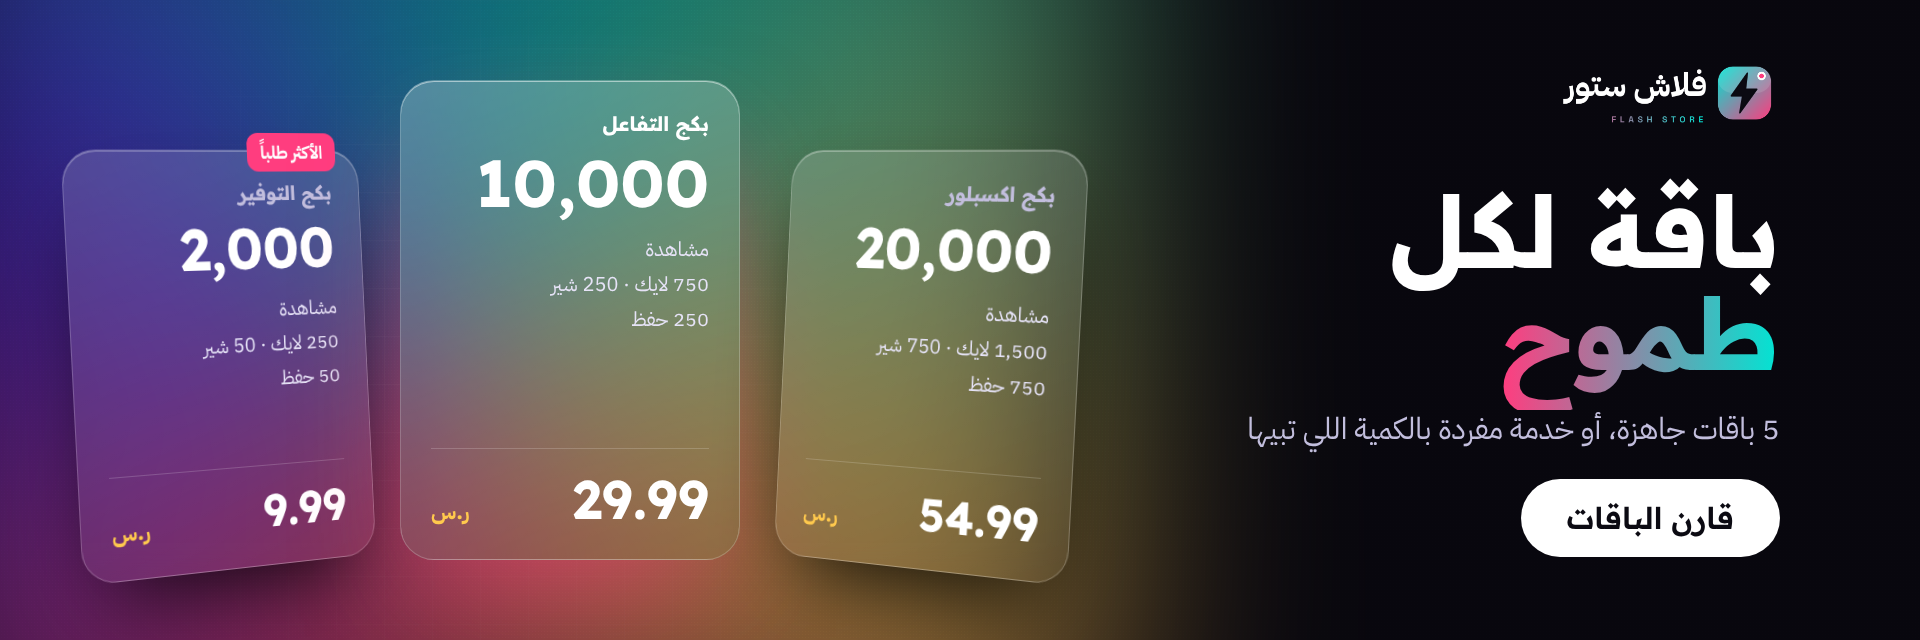
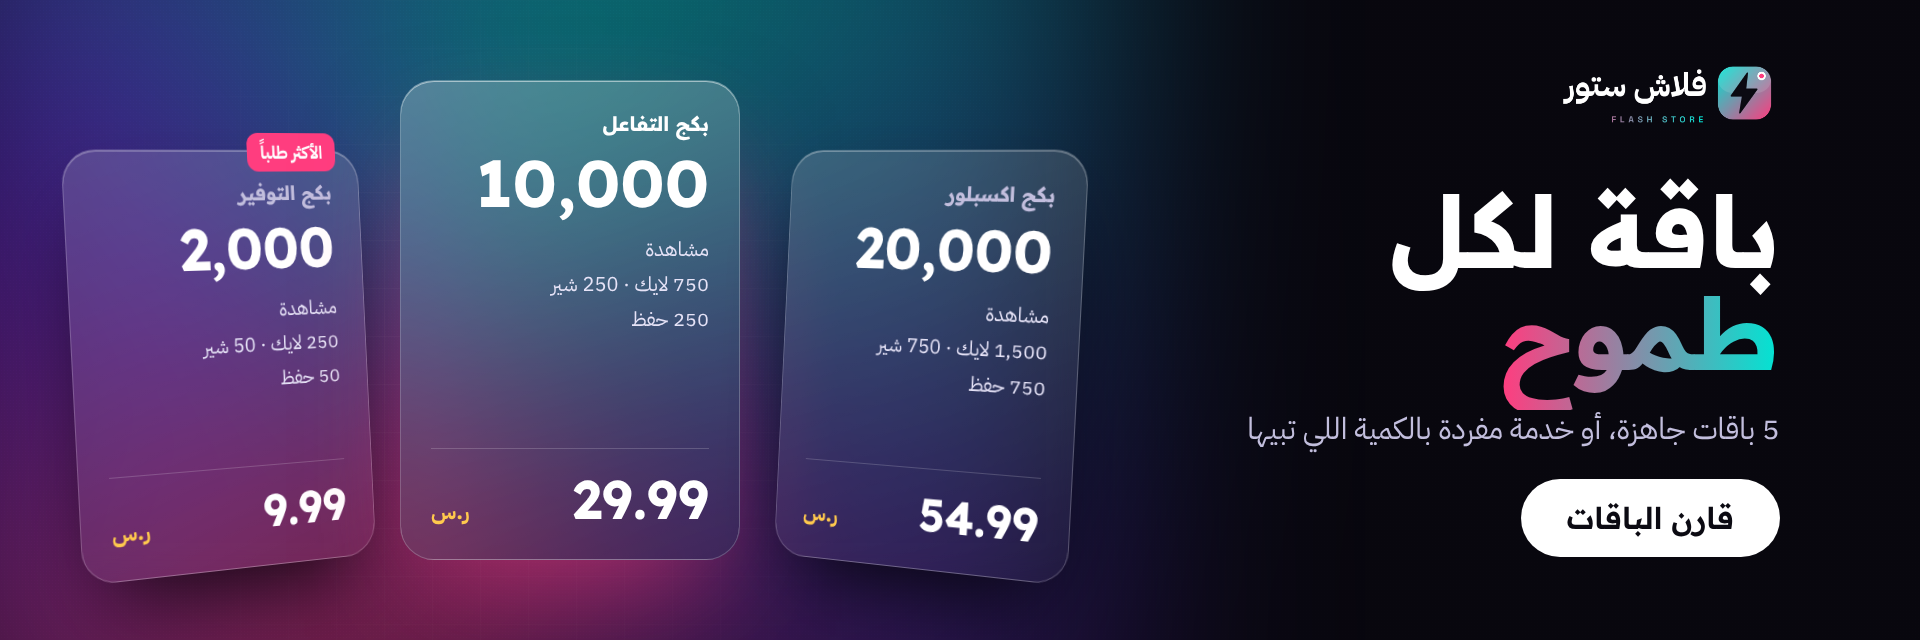
Polish v4 headers
Claude-Session: https://claude.ai/code/session_01Jr2byRzhdfLVFbNc9Z4Y48

diff --git a/salla/v9/headers4.html b/salla/v9/headers4.html
@@ -52,7 +52,7 @@ svg{display:block}
 .p{position:absolute;pointer-events:none}
 .scr{position:absolute;inset:14px;border-radius:44px;overflow:hidden}
 .rail{position:absolute;right:16px;bottom:120px;display:flex;flex-direction:column;gap:26px;align-items:center;z-index:3}
-.rail div{text-align:center;font-weight:700;font-size:17px}
+.rail div{text-align:center;font-weight:700;font-size:17px;direction:ltr}
 .cap{position:absolute;right:20px;left:90px;bottom:34px;z-index:3;font-size:17px;line-height:1.5;color:#fff;text-align:right}
 .pop{position:absolute;z-index:4;display:flex;align-items:center;gap:12px;padding:14px 22px;border-radius:22px;background:rgba(22,20,42,.78);border:1px solid rgba(255,255,255,.14);backdrop-filter:blur(14px);box-shadow:0 20px 50px -15px rgba(0,0,0,.8);font-family:Readex;font-weight:700;font-size:30px;direction:ltr}
 .pop small{font-family:Plex;font-weight:600;font-size:18px;color:var(--mut);direction:rtl}
@@ -77,17 +77,14 @@ svg{display:block}
       <filter id="gl" x="-50%" y="-50%" width="200%" height="200%"><feGaussianBlur stdDeviation="18" result="b"/><feMerge><feMergeNode in="b"/><feMergeNode in="SourceGraphic"/></feMerge></filter>
       <radialGradient id="hit"><stop offset="0" stop-color="#fff"/><stop offset=".3" stop-color="#9FFFF7"/><stop offset="1" stop-color="#00E5D4" stop-opacity="0"/></radialGradient>
     </defs>
-    <g transform="translate(150,-30) rotate(8)">
-      <g id="bolt3d">
-        <path d="M330 0 120 330h150L190 640 470 250H310L410 0Z" fill="url(#bs)" transform="translate(26,22)"/>
-        <path d="M330 0 120 330h150L190 640 470 250H310L410 0Z" fill="url(#bs)" transform="translate(18,15)"/>
-        <path d="M330 0 120 330h150L190 640 470 250H310L410 0Z" fill="url(#bs)" transform="translate(9,8)"/>
-        <path d="M330 0 120 330h150L190 640 470 250H310L410 0Z" fill="url(#bf)" filter="url(#gl)"/>
-        <path d="M330 0 120 330h150L190 640 470 250H310L410 0Z" fill="none" stroke="rgba(255,255,255,.55)" stroke-width="3"/>
-        <path d="M335 20 160 305h40L345 30Z" fill="rgba(255,255,255,.35)"/>
-      </g>
+    <g transform="translate(205,22) rotate(8) scale(.88)">
+      <g id="ext"></g>
+      <path d="M330 0 120 330h150L190 640 470 250H310L410 0Z" fill="url(#bf)" filter="url(#gl)"/>
+      <path d="M330 0 120 330h150L190 640 470 250H310L410 0Z" fill="none" stroke="rgba(255,255,255,.7)" stroke-width="3" stroke-linejoin="round"/>
+      <path d="M338 22 168 300h34L352 34Z" fill="rgba(255,255,255,.45)"/>
+      <path d="M318 268h118L226 556Z" fill="rgba(255,255,255,.12)"/>
     </g>
-    <circle cx="430" cy="600" r="150" fill="url(#hit)" opacity=".7"/>
+    <circle cx="400" cy="610" r="170" fill="url(#hit)" opacity=".75"/><ellipse cx="400" cy="622" rx="260" ry="26" fill="#00E5D4" opacity=".25" filter="url(#gl)"/>
   </svg>
   <div id="sparks1" class="p" style="inset:0"></div>
   <div class="pop z" style="left:600px;top:120px"><svg width="34" height="34" viewBox="0 0 24 24"><path d="M2 12s3.6-7 10-7 10 7 10 7-3.6 7-10 7S2 12 2 12Z" fill="none" stroke="#00E5D4" stroke-width="2.2"/><circle cx="12" cy="12" r="3" fill="#00E5D4"/></svg>+2,000<small>مشاهدة</small></div>
@@ -130,11 +127,11 @@ svg{display:block}
 <!-- ================= 3: ENGAGEMENT STORM ================= -->
 <section class="b noise vig" id="w3" style="background:radial-gradient(1000px 640px at 30% 55%,#1C0F3A 0,#0A0910 65%)">
   <div id="storm" class="p" style="inset:0"></div>
-  <div class="z" style="left:320px;top:110px;width:300px;height:600px;border-radius:52px;background:#141226;border:10px solid #23204A;box-shadow:0 60px 140px -20px rgba(0,0,0,.9),0 0 0 1px rgba(255,255,255,.06),0 0 120px -30px #FF3D7F;transform:rotate(-8deg)">
+  <div class="z" style="left:360px;top:80px;width:250px;height:490px;border-radius:46px;background:#141226;border:10px solid #23204A;box-shadow:0 60px 140px -20px rgba(0,0,0,.9),0 0 0 1px rgba(255,255,255,.06),0 0 120px -30px #FF3D7F;transform:rotate(-8deg)">
     <div class="scr" style="background:linear-gradient(170deg,#2A1F52,#0E0C1C)">
       <div style="position:absolute;top:16px;left:50%;width:90px;height:26px;margin-left:-45px;border-radius:14px;background:#000"></div>
       <div style="position:absolute;left:50%;top:40%;transform:translate(-50%,-50%)"><svg width="80" height="80" viewBox="0 0 24 24"><circle cx="12" cy="12" r="11" fill="rgba(255,255,255,.14)"/><path d="M10 8l6 4-6 4z" fill="#fff"/></svg></div>
-      <div class="rail"><div><svg width="38" height="38" viewBox="0 0 24 24"><path d="M12 20s-7.5-4.6-9.2-9.3C1.7 7.5 3.8 4.5 7 4.5c2 0 3.4 1.1 5 3 1.6-1.9 3-3 5-3 3.2 0 5.3 3 4.2 6.2C19.5 15.4 12 20 12 20Z" fill="#FF3D7F"/></svg></div></div>
+      <div class="rail" style="bottom:70px;gap:18px"><div><svg width="34" height="34" viewBox="0 0 24 24"><path d="M12 20s-7.5-4.6-9.2-9.3C1.7 7.5 3.8 4.5 7 4.5c2 0 3.4 1.1 5 3 1.6-1.9 3-3 5-3 3.2 0 5.3 3 4.2 6.2C19.5 15.4 12 20 12 20Z" fill="#FF3D7F"/></svg>+250</div><div><svg width="30" height="30" viewBox="0 0 24 24"><path d="M6 3h12v18l-6-4.5L6 21V3Z" fill="#FFC94D"/></svg>+50</div><div><svg width="30" height="30" viewBox="0 0 24 24"><path d="M14 4l7 7-7 7v-4c-5 0-8.5 1.5-11 5 1-5 4-10 11-11V4Z" fill="#fff"/></svg>+50</div></div>
     </div>
   </div>
   <img class="logo z" src="logo.png">
@@ -147,7 +144,7 @@ svg{display:block}
 
 <!-- ================= 4: GLASS PACKAGES ================= -->
 <section class="b noise" id="w4" style="background:#08070E">
-  <div class="p" style="left:-100px;top:-200px;width:1200px;height:1000px;background:conic-gradient(from 200deg at 45% 55%,#FF3D7F,#5B2BFF,#00E5D4,#FFC94D,#FF3D7F);filter:blur(120px);opacity:.55"></div>
+  <div class="p" style="left:-100px;top:-200px;width:1200px;height:1000px;background:conic-gradient(from 200deg at 45% 55%,#FF3D7F,#7A2BFF,#00E5D4,#3A1F9A,#FF3D7F);filter:blur(120px);opacity:.5"></div>
   <div class="p" style="left:0;top:0;width:1100px;height:640px;background-image:linear-gradient(rgba(255,255,255,.04) 1px,transparent 1px),linear-gradient(90deg,rgba(255,255,255,.04) 1px,transparent 1px);background-size:48px 48px;mask-image:radial-gradient(circle at 45% 55%,#000,transparent 70%);-webkit-mask-image:radial-gradient(circle at 45% 55%,#000,transparent 70%)"></div>
   <div class="gc z" style="left:70px;top:150px;transform:perspective(1200px) rotateY(18deg) rotate(-3deg)">
     <span style="position:absolute;top:-18px;right:24px;background:var(--pk);font-weight:700;font-size:18px;padding:6px 14px;border-radius:12px">الأكثر طلباً</span>
@@ -174,10 +171,11 @@ svg{display:block}
 </section>
 
 <script>
+(function(){const g=document.getElementById("ext");let h="";for(let i=26;i>0;i--){const t=i/26;h+=`<path d="M330 0 120 330h150L190 640 470 250H310L410 0Z" transform="translate(${(i*1.1).toFixed(1)},${(i*0.9).toFixed(1)})" fill="rgb(${Math.round(40+60*(1-t))},${Math.round(10+20*(1-t))},${Math.round(50+30*(1-t))})"/>`}g.innerHTML=h})();
 function rnd(seed){return function(){seed=(seed*16807)%2147483647;return (seed-1)/2147483646}}
 (function(){
   const r=rnd(7),el=document.getElementById('sparks1');let h='';
-  for(let i=0;i<70;i++){const x=200+r()*700,y=r()*640,s=2+r()*5,c=r()<.5?'#FF3D7F':(r()<.5?'#00E5D4':'#fff');h+=`<i style="position:absolute;left:${x}px;top:${y}px;width:${s}px;height:${s}px;border-radius:50%;background:${c};box-shadow:0 0 ${s*3}px ${c};opacity:${.3+r()*.7}"></i>`}
+  for(let i=0;i<45;i++){const x=180+r()*720,y=r()*640,s=2+r()*5,c=r()<.5?'#FF3D7F':(r()<.5?'#00E5D4':'#fff');h+=`<i style="position:absolute;left:${x}px;top:${y}px;width:${s}px;height:${s}px;border-radius:50%;background:${c};box-shadow:0 0 ${s*3}px ${c};opacity:${.3+r()*.7}"></i>`}
   el.innerHTML=h;
 })();
 (function(){
@@ -193,8 +191,8 @@ function rnd(seed){return function(){seed=(seed*16807)%2147483647;return (seed-1
     ['<path d="M6 3h12v18l-6-4.5L6 21V3Z" fill="#FFC94D"/>','#FFC94D'],
     ['<path d="M14 4l7 7-7 7v-4c-5 0-8.5 1.5-11 5 1-5 4-10 11-11V4Z" fill="#00E5D4"/>','#00E5D4'],
     ['<path d="M2 12s3.6-7 10-7 10 7 10 7-3.6 7-10 7S2 12 2 12Z" fill="#B9A6FF"/><circle cx="12" cy="12" r="3" fill="#1C0F3A"/>','#B9A6FF']];
-  const cx=470,cy=360;
-  for(let i=0;i<120;i++){const a=r()*Math.PI*2,d=120+Math.pow(r(),.7)*560;const x=cx+Math.cos(a)*d*1.25,y=cy+Math.sin(a)*d*.75;if(x<-40||x>1020||y<-40||y>680)continue;const s=18+r()*58*(d/680+.25);const ic=icons[Math.floor(r()*icons.length)];const bl=r()<.35?`filter:blur(${(2+r()*4).toFixed(1)}px);`:'';h+=`<svg style="position:absolute;left:${x}px;top:${y}px;transform:rotate(${(r()*60-30).toFixed(0)}deg);${bl}opacity:${(.45+r()*.55).toFixed(2)};filter:${bl?'blur(3px)':'drop-shadow(0 0 10px '+ic[1]+')'}" width="${s}" height="${s}" viewBox="0 0 24 24">${ic[0]}</svg>`}
+  const cx=485,cy=325;
+  for(let i=0;i<95;i++){const a=r()*Math.PI*2,d=120+Math.pow(r(),.7)*560;const x=cx+Math.cos(a)*d*1.25,y=cy+Math.sin(a)*d*.75;if(x<-40||x>1020||y<-40||y>680)continue;const s=18+r()*58*(d/680+.25);const ic=icons[Math.floor(r()*icons.length)];const far=r()<.3;const f=far?'blur(2.5px)':'drop-shadow(0 0 8px '+ic[1]+')';const ss=far?s*.7:s;h+=`<svg style="position:absolute;left:${x}px;top:${y}px;transform:rotate(${(r()*50-25).toFixed(0)}deg);opacity:${(far?.35:.6+r()*.4).toFixed(2)};filter:${f}" width="${ss}" height="${ss}" viewBox="0 0 24 24">${ic[0]}</svg>`}
   el.innerHTML=h;
 })();
 </script>
